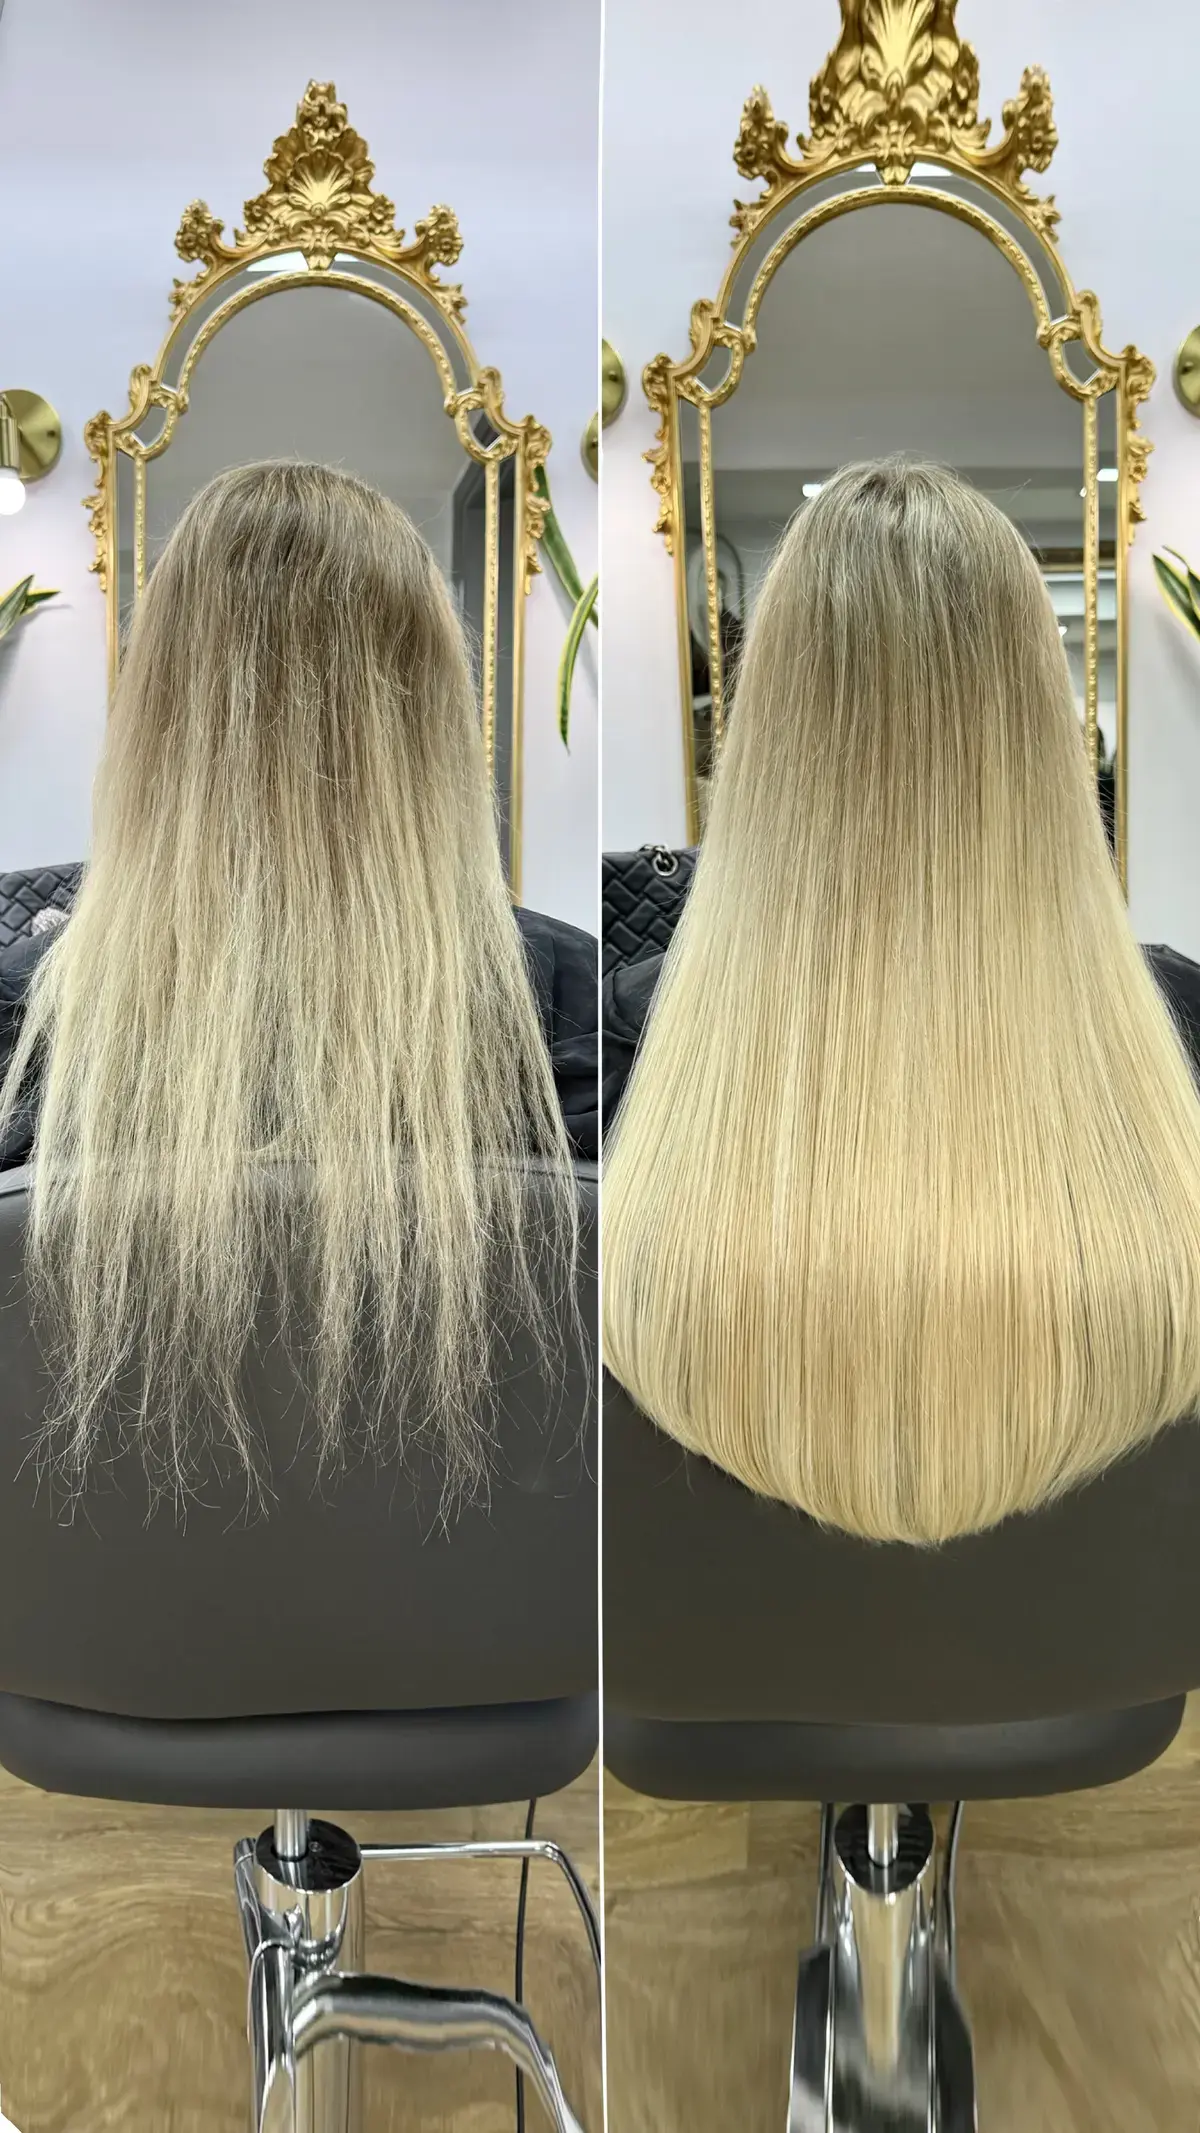
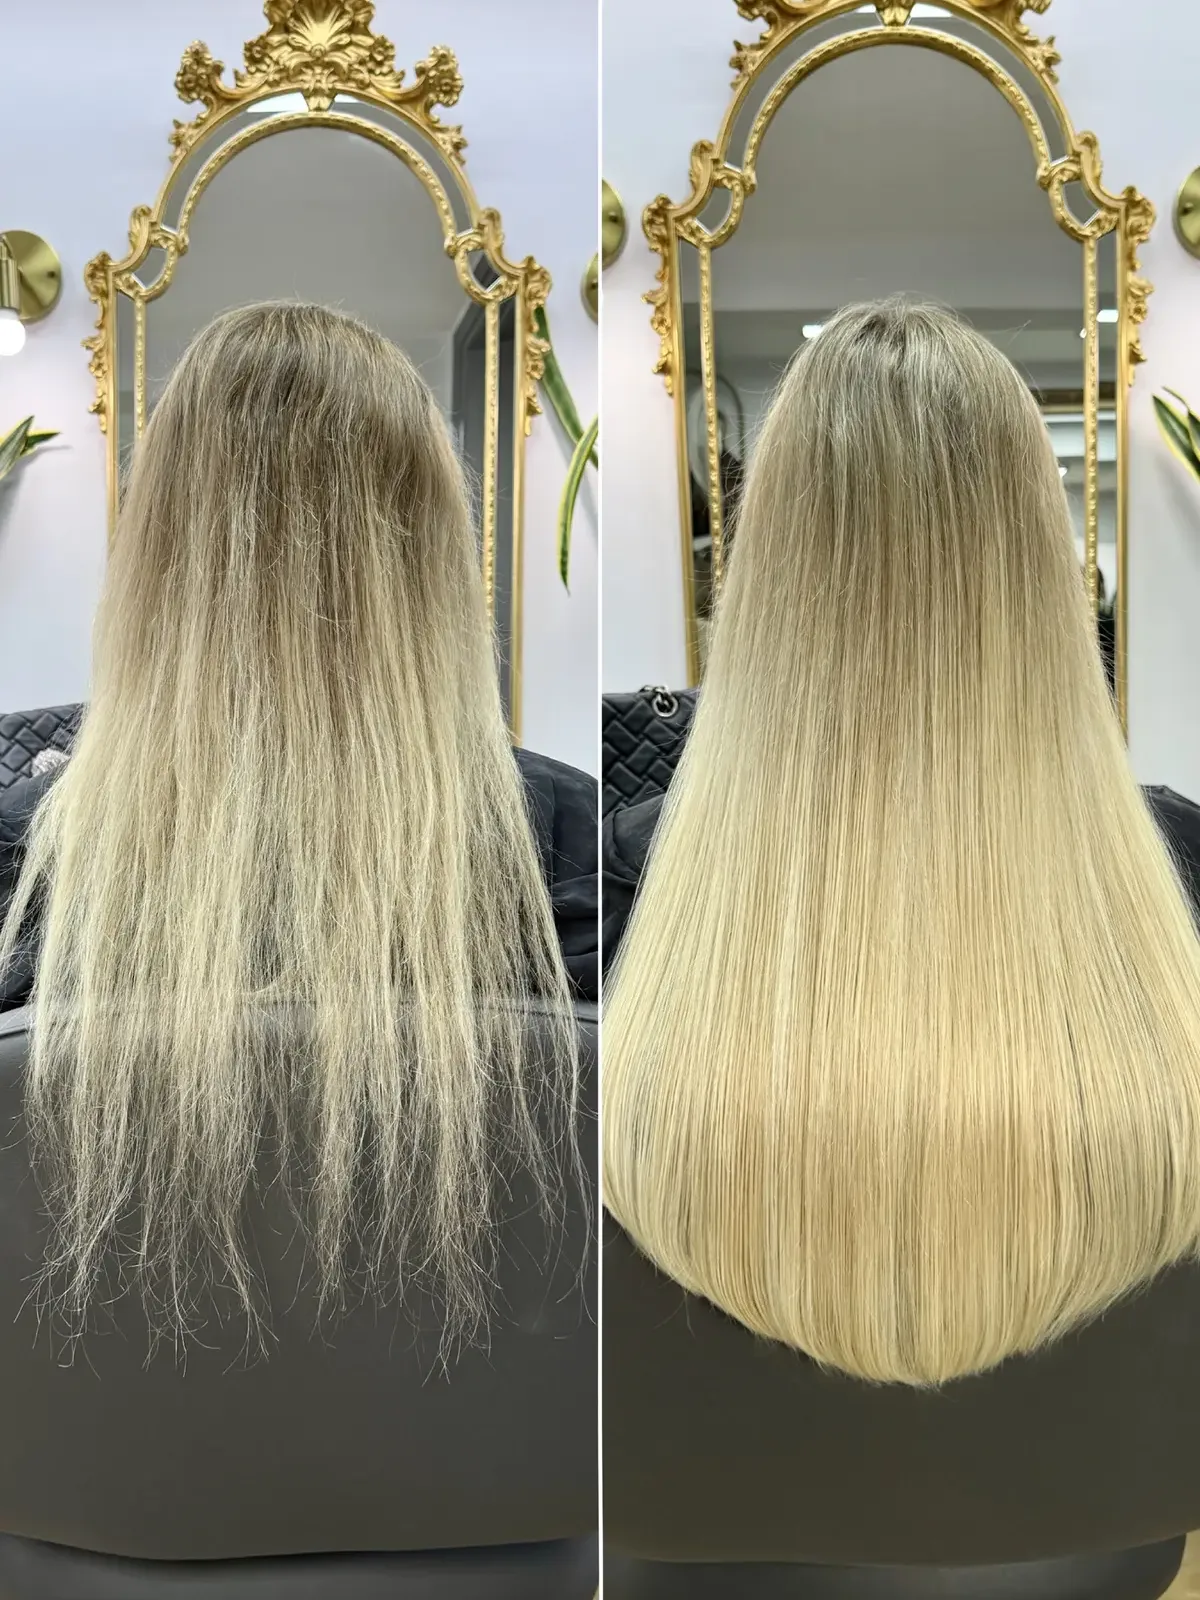
Remove wiglets section and button, halo before after cropped to standard split

diff --git a/main-site/hair-toppers.html b/main-site/hair-toppers.html
@@ -80,7 +80,6 @@
           <a class="btn btn--outline" href="#classic">Classic</a>
           <a class="btn btn--outline" href="#frontal">Frontal</a>
           <a class="btn btn--outline" href="#halo">Halo</a>
-          <a class="btn btn--outline" href="#wiglets">Wiglets</a>
         </div>
       </div>
     </div>
@@ -93,7 +92,7 @@
       <li><span class="trust-value">8 to 12 weeks</span><span class="trust-label">Made to measure for you</span></li>
       <li><span class="trust-value">100% Russian hair</span><span class="trust-label">Colour matched without dye</span></li>
       <li><span class="trust-value">Classic, Frontal, Halo</span><span class="trust-label">Three custom topper types</span></li>
-      <li><span class="trust-value">From £615</span><span class="trust-label">Wiglets and toppers</span></li>
+      <li><span class="trust-value">From £615</span><span class="trust-label">Made to measure toppers</span></li>
     </ul>
   </div>
 </section>
@@ -137,7 +136,7 @@
 <section class="section" id="halo">
   <div class="container">
     <div class="split split--reverse">
-      <div class="split-media split-media--card">
+      <div class="split-media">
         <img src="images/toppers/04-halo-topper-before-after.webp" alt="Halo topper before and after, fine blonde hair transformed to full length and density" width="1200" height="1600" loading="lazy">
       </div>
       <div class="split-copy">
@@ -147,24 +146,6 @@
         <p>The Halo Topper answers more advanced thinning, where there is no longer enough strong hair on top to support the clips of a traditional topper. Instead of relying on the thinning area itself, the halo design draws its security from the stronger hair around the sides and back of the head.</p>
         <p>That construction makes it the gentlest option for fragile hair. Nothing pulls on the very hair you are trying to protect, the weight is carried where your hair can comfortably hold it and the coverage on top remains full, soft and completely natural to the eye.</p>
         <p>For many women the halo is the bridge between a topper and a wig, keeping their own hair in the picture for longer. Halo Toppers are made to measure from Russian hair over 8 to 12 weeks and start from £1,100.</p>
-      </div>
-    </div>
-  </div>
-</section>
-
-<section class="section" id="wiglets">
-  <div class="container">
-    <div class="split">
-      <div class="split-media">
-        <img src="images/toppers/05-wiglet-base-detail.webp" alt="Wiglet base construction with clips shown in detail" width="1200" height="1600" loading="lazy">
-      </div>
-      <div class="split-copy">
-        <p class="eyebrow">For smaller areas, from £615</p>
-        <span class="eyebrow-rule"></span>
-        <h2>Wiglets and Smaller Pieces</h2>
-        <p>Not every woman needs full top coverage. Wiglets are smaller pieces made for a specific patch, a widening parting, a thin spot at the crown or a section that never recovered after an operation or a period of shedding. They add density precisely where it is missing and nowhere else.</p>
-        <p>Each wiglet is built with the same care as our larger pieces, the same Russian hair, the same dye free colour blending and the same made to measure base, simply scaled to the area it serves. Worn daily, it disappears into your own hair completely.</p>
-        <p>Wiglets and hair toppers start from £615. If you are unsure whether a wiglet or a full topper serves you better, the consultation settles it honestly, and our full <a href="https://tatianakarelina.co.uk/prices/">price list</a> is published so you always know where you stand.</p>
       </div>
     </div>
   </div>
